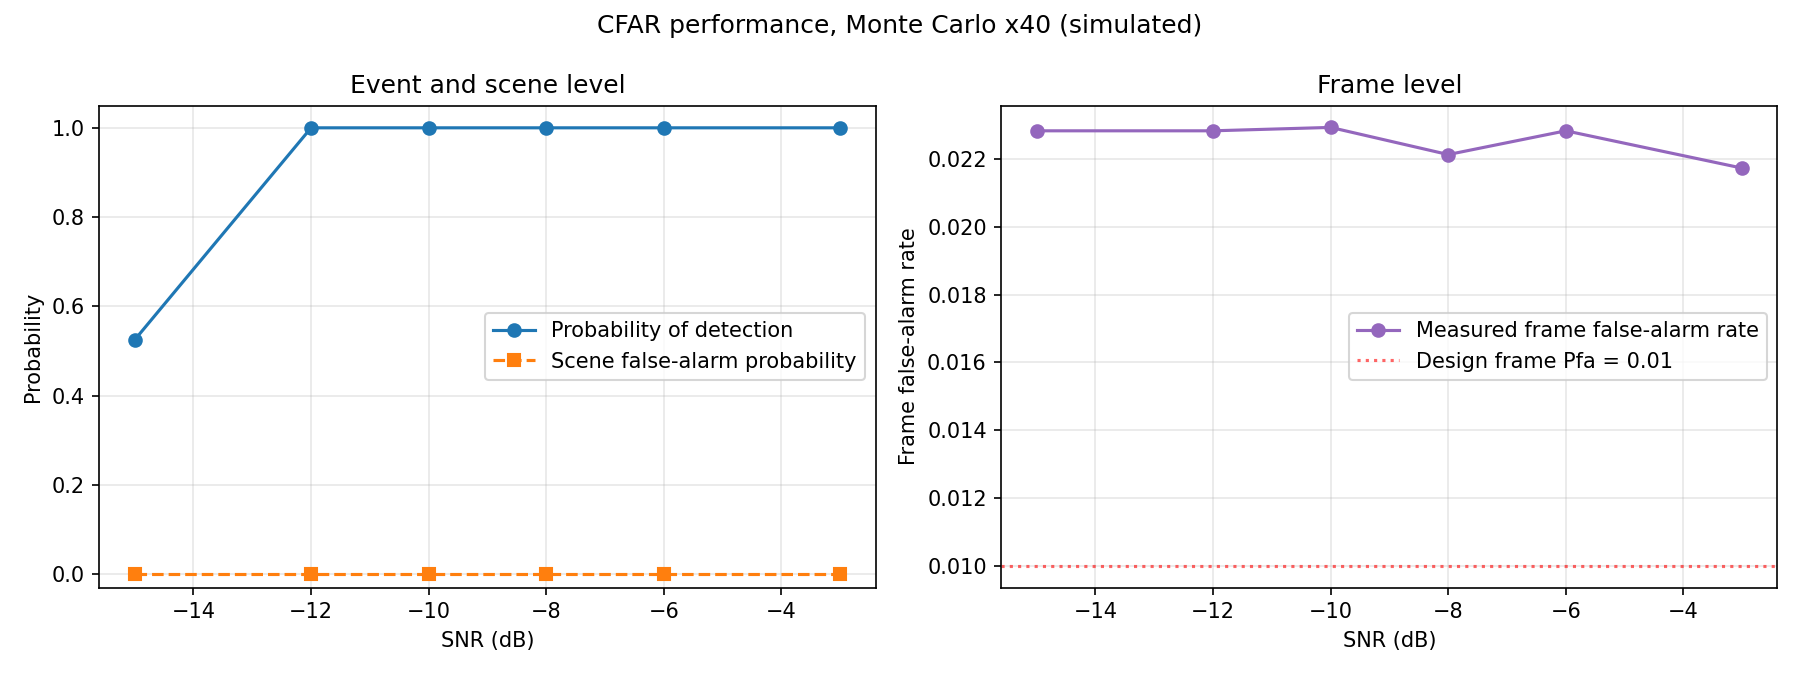
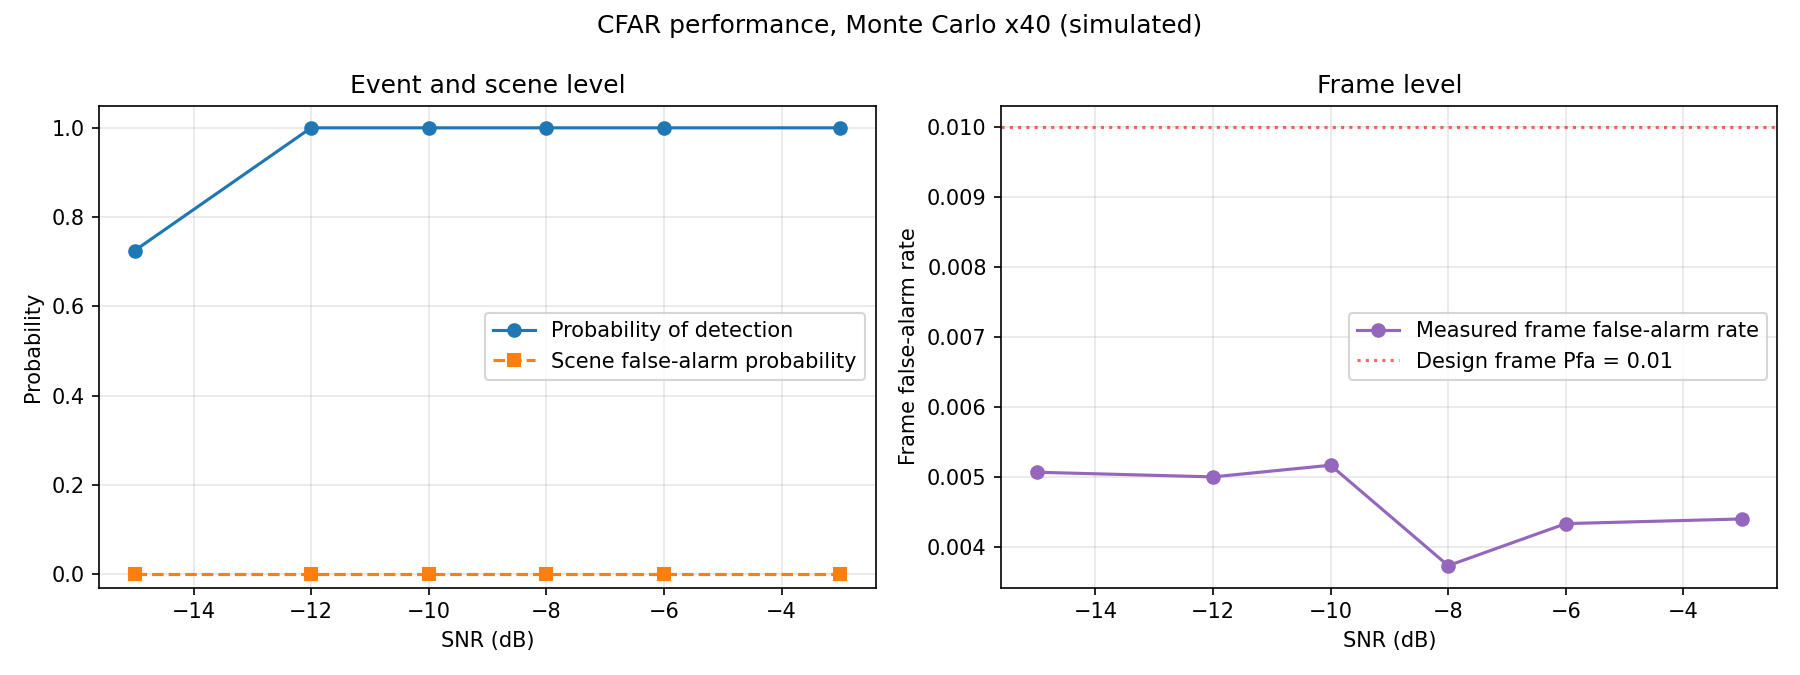
fix: 用矩形窗校准CFAR帧级虚警率

diff --git a/src/detect/cfar.py b/src/detect/cfar.py
@@ -17,11 +17,14 @@ import numpy as np
 
 def stft_power(x_mono: np.ndarray, frame_len: int = 256, hop: int = 128,
                fs: float = 96_000.0):
-    """返回 (功率谱 (F,T), 频率轴 (F,), 帧中心时间秒 (T,))。"""
+    """用矩形窗分帧，返回 (功率谱 (F,T), 频率轴 (F,), 帧中心时间秒 (T,))。
+
+    白噪声经矩形窗正交 FFT 后各频点相互独立，符合当前 CA-CFAR 的
+    指数分布参考单元假设；Hann 窗会引入相邻频点相关，使实测虚警率偏高。
+    """
     n = len(x_mono)
-    win = np.hanning(frame_len)
     starts = np.arange(0, n - frame_len + 1, hop)
-    segs = np.stack([x_mono[s:s + frame_len] * win for s in starts], axis=1)
+    segs = np.stack([x_mono[s:s + frame_len] for s in starts], axis=1)
     F = np.fft.rfft(segs, axis=0)
     P = np.abs(F) ** 2 / (frame_len ** 2)
     freqs = np.fft.rfftfreq(frame_len, 1 / fs)

diff --git a/tests/test_detection_pipeline.py b/tests/test_detection_pipeline.py
@@ -93,6 +93,18 @@ class DetectionPipelineTests(unittest.TestCase):
 
         self.assertTrue(any(a["t_start"] < 2.5 and a["t_end"] > 1.0 for a in alarms))
 
+    def test_cfar_white_noise_frame_pfa_stays_within_budget(self):
+        """白噪声下原始帧虚警率不应超过双通道总预算 0.01。"""
+        false_frames, total_frames = 0, 0
+        for seed in range(2000, 2040):
+            x = np.random.default_rng(seed).standard_normal(int(4.0 * FS))
+            _, dbg = cfar_detect(x, FS, pfa=1e-2)
+            false_frames += int(np.count_nonzero(dbg["frame_hit"]))
+            total_frames += len(dbg["frame_hit"])
+
+        measured_pfa = false_frames / total_frames
+        self.assertLess(measured_pfa, 0.01)
+
     def test_doa_band_uses_mean_channel_power(self):
         """选频应按频率轴比较功率，反相通道也不能互相抵消。"""
         try:

diff --git a/docs/algorithm-framework.md b/docs/algorithm-framework.md
@@ -48,9 +48,9 @@
 ### detect —— CFAR 异常检测（✅ 已完成，仿真验证）
 - 文件：`src/detect/cfar.py`
 - 接口：`cfar_detect(x, fs, frame_len=1024, hop=512, pfa=1e-2) -> (alarms, debug)`
-- 原理：频率向谱线 CFAR + 时间向宽带能量 CFAR 双通道，各占 `pfa/2`；低频边缘使用单侧参考窗，门限随背景自适应
+- 原理：矩形窗分帧 FFT + 频率向谱线 CFAR + 时间向宽带能量 CFAR 双通道，各占 `pfa/2`；低频边缘使用单侧参考窗，门限随背景自适应。矩形窗用于避免 Hann 窗造成的相邻频点相关，匹配当前白噪声下参考单元近似独立的假设
 - 验收图：归一化检测裕量+0 dB 门限；分别报告检测率、场景级虚警概率、帧级虚警率与虚警次数/小时（当前每个 SNR 蒙特卡洛 40 次）
-- 校准状态：当前实测帧级虚警率高于标称值，标称 `pfa` 只代表设计预算，不作为实测性能
+- 校准状态：100 组纯噪声对照中，Hann 窗与矩形窗的频谱通道帧级虚警率分别为 0.02116 和 0.00507；改用矩形窗后，六档 SNR 实验的帧级虚警率为 0.00374–0.00517，均低于设计预算 0.01。该结论仅适用于当前仿真白噪声与样本规模，不代表真实水域中的恒虚警保证
 - `AlarmEvent = dict(t_start, t_end, detection_stat_db)`（字段写入数据接口规范）
 
 ### doa —— 方位估计（✅ 已完成）
@@ -79,8 +79,8 @@
 ### pipeline —— 主控串联（✅ 已完成，仿真验证）
 - 文件：`run_pipeline.py`
 - 逻辑：参考通道 CFAR 检测 → 告警定长分析窗 → 四通道 CBF → MLP 分类 → 输出告警
-- 终端输出示例：`【告警】1.01s–3.00s | 方位 60.9° | 类型 ship | 置信度 1.00`（置信度为未校准 softmax 分数）
-- 回归：`python -m unittest discover -s tests -v` 当前 7 项全部通过
+- 终端输出示例：`【告警】1.00s–3.00s | 方位 60.9° | 类型 ship | 模型得分 1.00`（该分数为未校准 softmax 输出）
+- 回归：`python -m unittest discover -s tests -v` 当前 8 项全部通过
 
 ## 4. 答辩图清单（每张图对应一个脚本，完成即打勾）
 

diff --git a/docs/handoff.md b/docs/handoff.md
@@ -5,6 +5,26 @@
 
 ---
 
+## 2026-11-20（第三次修正）· CFAR 帧级虚警率校准完成
+
+**根因与最小修复**
+- 用 100 个纯噪声场景（种子 2000–2099）拆分通道：Hann 窗版本频谱通道帧级虚警率为 0.02116，能量通道为 0；低频边缘仅贡献 0.00224，主要问题不是能量通道或低频边缘。
+- 根因是 Hann 窗引入相邻 FFT 频点相关，破坏当前频率向 CA-CFAR 对参考单元近似独立的假设。`stft_power()` 改为矩形窗分帧后直接 FFT；相同 100 组数据下，频谱通道帧级虚警率降为 0.00507，贴近该通道 0.005 的设计预算。
+- 新增白噪声帧级虚警回归测试：固定种子 2000–2039，共 40 个 4 秒场景，要求总帧级虚警率小于 0.01。修复前实测 0.02123，测试按预期失败；修复后通过。
+
+**最新真实结果（全部为仿真数据）**
+- 8 项 unittest 全部通过。
+- CFAR 每个 SNR 40 次：-15 dB 检测率 0.72，-12～-3 dB 均 1.00；六档帧级虚警率为 0.00374–0.00517，均低于设计预算 0.01；各档场景级虚警概率与成形虚警次数/小时本轮均为 0。0 次场景虚警仍不证明真实概率为 0。
+- `run_pipeline.py` 共 3 段告警：ship 1.00–3.00 s、60.9°、1.00；human 4.50–4.52 s、119.8°、1.00；fish 6.11–6.13 s、250.2°、0.95。类别均正确，最后一个数值是未校准的 MLP softmax 分数。
+- 已重新生成并人工查看 `figures/day3/cfar_scene.png` 与 `cfar_pd_pfa.png`：归一化检测裕量使用 0 dB 判决线，事件/场景级与帧级统计分面板展示，图中标明 simulated。
+
+**下一步**
+1. 当前校准只覆盖仿真高斯白噪声；真实水声、有色噪声、非平稳背景与公开数据接入后必须重新估计门限，不能沿用本轮 Pfa 结论。
+2. 扩展多角度、多 SNR、多目标与真实公开数据验证；当前仍是单场景仿真 demo。
+3. 基于已跑通的流水线做可视化，页面使用“检测统计量”“模型得分”等准确名称。
+
+---
+
 ## 2026-11-20（第二次修正）· SNR 与 CFAR 统计口径审查修正
 
 **审查发现并已修复**
